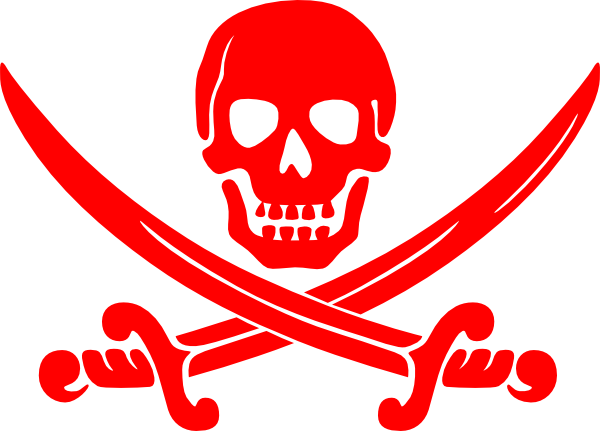
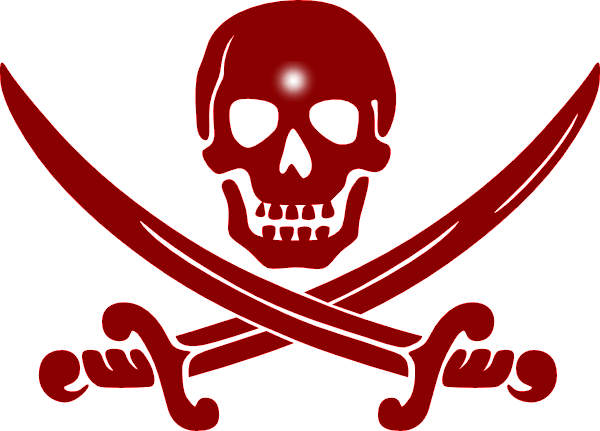
1/8 1511

diff --git a/css/style.css b/css/style.css
@@ -1,5 +1,6 @@
 /*colors
 	red skull- #990000
+	red skull & swords- #FF0000
 	white om- #FFFFFF
 	lotus- (black to white progressivly through grey shades light to dark)
 	black- #0D0D0D
@@ -15,10 +16,19 @@ html {
 	background-size: cover;
 	background-position: absolute;
 	background-repeat: no-repeat;
-	color: #990000;
+	/*color: #FF0000;*/
 
 }
+body > .asj {
+	text-align: left;
+	font-size: 2em;
+	color:#622949;
+}
+body > .om {
+	text-align: right;
+}
 body {
+	color: #8A0000;
 	text-align: center;
 }
 /*.skull {*/

diff --git a/home.html b/home.html
@@ -6,7 +6,9 @@
 	<title>Portfolio</title>
 </head>
 <body> 
+ 	<h1 class="asj">23</h1>
 	<h1>The world is yours...</h1>
 	<h2>Shape it or someone else will</h2>
-		<img src="images/red-skull-swords.png" class="skull"/>
+		<img class="skull" src="images/red-skull-swords.png" />
+	<!-- <img class="om" src="images/white-lotus1.png"/> -->
 </html>
